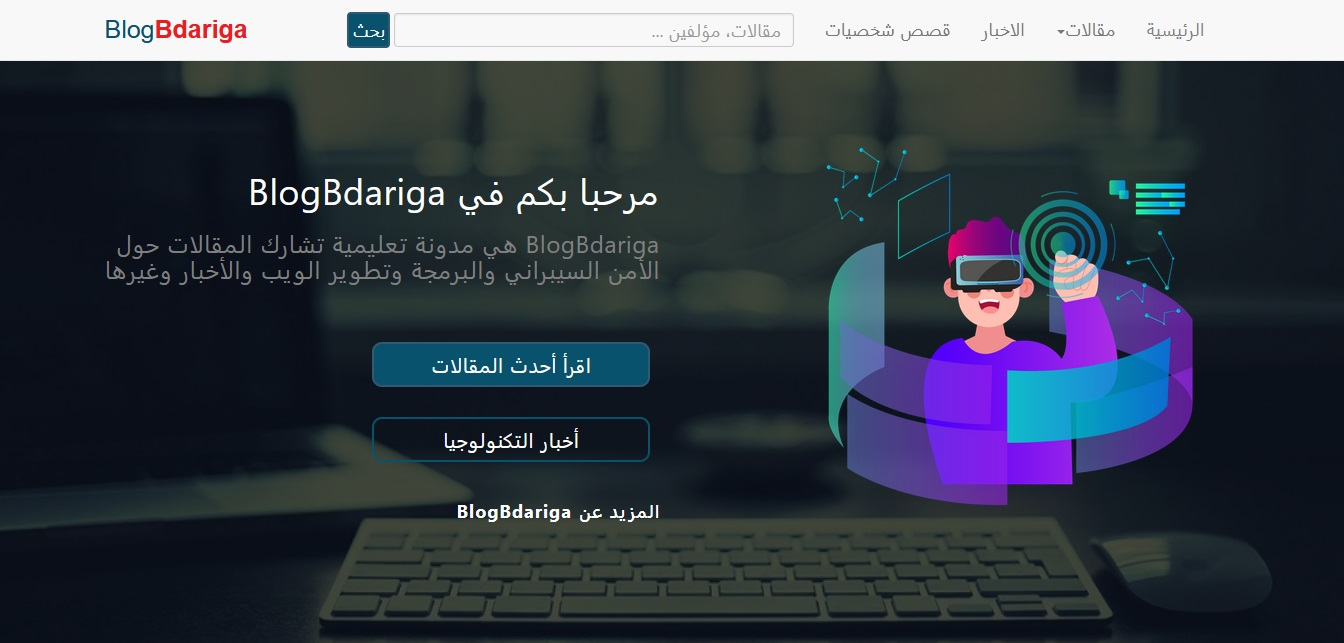
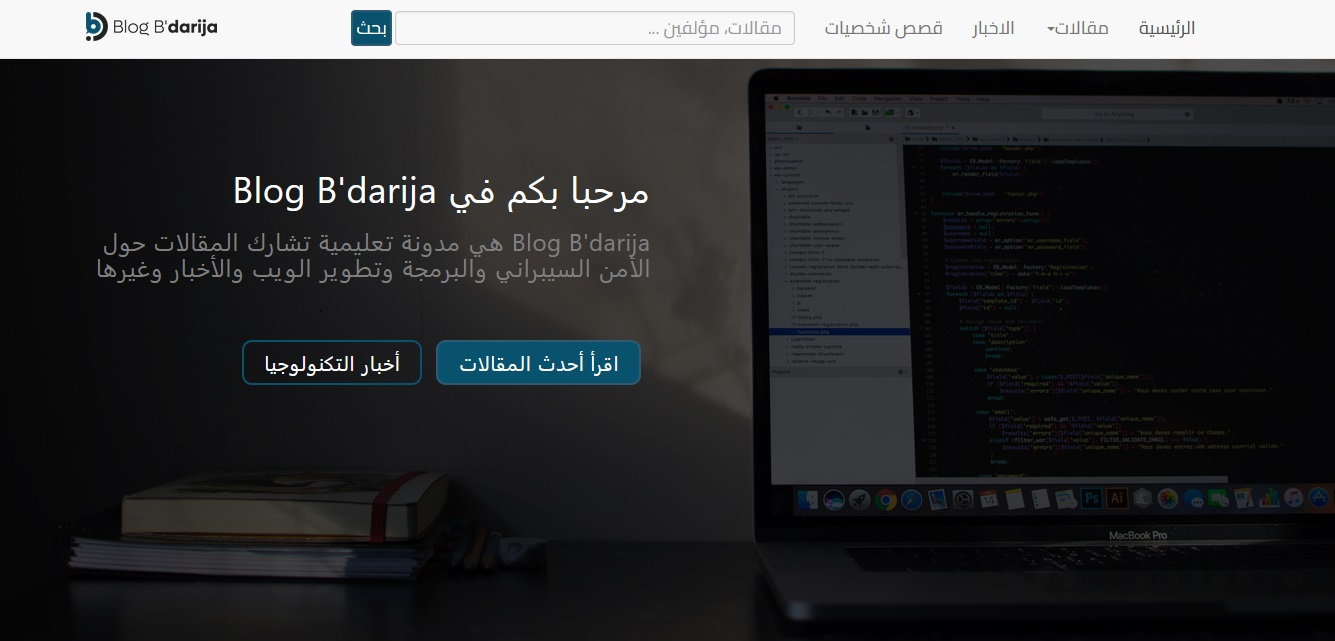
some updates

diff --git a/index.html b/index.html
@@ -9,7 +9,7 @@
 	<link rel="stylesheet" href="css/rtl.css">
 	<link rel="stylesheet" href="css/style.css">
 	<link rel="stylesheet" href="https://pro.fontawesome.com/releases/v5.10.0/css/all.css">
-	<link rel = "icon" href="img/hamza.png" type = "image/x-icon"/>
+	<link rel = "icon" href="img/hamza.jpg" type = "image/x-icon"/>
 	<link rel="stylesheet" type="text/css" href="https://www.fontstatic.com/f=althawra-fikra-bold" />
 	<link rel="stylesheet" type="text/css" href="https://www.fontstatic.com/f=shahd-bold" />
 </head>
@@ -53,8 +53,8 @@
 
 	<section class="about" id="about">
 		<div class="container">
-			<div class="col-lg-6 col-md-6 text-center">
-				<img src="img/a.jpg">
+			<div class="col-lg-6 col-md-6 text-center about-img">
+				<img src="img/hamza.jpg">
 			</div>
 			<div class="col-lg-6 col-md-6">
 				<h2>Who ami</h2>
@@ -70,7 +70,7 @@
 		<div class="container">
 			<div class="col-lg-4 col-md-4">
 				<h1>Skills</h1>
-				<p id="aboutskills">ICurrently, I spend much of my time learning new technologies and skills in the field of cyber security, exploits, and pentesting tool development.<br>
+				<p id="aboutskills">Currently, I spend much of my time learning new technologies and skills in the field of cyber security, exploits, and pentesting tool development.<br>
 				I am also proficient in handling and using a variety of operating systems, including GNU/Linux and Windows.<br>
 				As someone who believes in open source power, I prefer to share my projects with the public, <i> so you will see that on my github account.</i> It is a good solution for solving problems and getting inspiration from others.<br></p>
 			</div>
@@ -80,35 +80,30 @@
 				  <div class="skills-stat HTML5">90%</div>
 				</div>
 
-				<p>CSS3</p>
+				<p>CSS3 - Bootstrap</p>
 				<div class="skills-container">
 				  <div class="skills-stat CSS3">80%</div>
 				</div>
 
-				<p>Bootstrap</p>
-				<div class="skills-container">
-				  <div class="skills-stat Bootstrap">70%</div>
-				</div>
-
-				<p>PHP</p>
+				<p>PHP - Laravel</p>
 				<div class="skills-container">
 				  <div class="skills-stat php">90%</div>
 				</div>
 
-				<p>MySql</p>
+				<p>MySql - SQL Server</p>
 				<div class="skills-container">
 				  <div class="skills-stat MySql">95%</div>
 				</div>
 
 				
-				<p>jQuery</p>
+				<p>JS - jQuery</p>
 				<div class="skills-container">
 				  <div class="skills-stat jQuery">60%</div>
 				</div>
 
-				<p>Ado.Net & SQL Server</p>
+				<p>Dotenet Technologies</p>
 				<div class="skills-container">
-				  <div class="skills-stat dotenet">55%</div>
+				  <div class="skills-stat dotenet">80%</div>
 				</div>
 			</div>
 		</div>
@@ -155,25 +150,25 @@
 					<div class="col-lg-4 col-md-4 col-sm-12 col-xs-12 center-block">
 						<div class="center-block project">
 							<div class="projimg">
-								<img class="img-responsive" src="img/carslocation.jpg">
+								<img class="img-responsive" src="img/travrlandtheme.jpg">
 							</div>	
-							<h3>CarsLocation</h3>
-							<p>landing page for cars reservation location<br><span>6 Feb, 2022</span></p>
-							<a href="oops.html" target="_blanck"><button class="btn visit">visit</button></a>
+							<h3>Traveland</h3>
+							<p>open source travel blog theme<br><span>6 Feb, 2022</span></p>
+							<a href="https://hamza07-w.github.io/Traveland" target="_blanck"><button class="btn visit">visit</button></a>
 						</div>
 					</div>	
 	            </div>
 	            <div class="item">
-					<div class="col-lg-4 col-md-4 col-sm-12 col-xs-12 center-block">
-						<div class="center-block project">
-							<div class="projimg">
-								<img class="img-responsive" src="img/blogbdariga.jpg">
-							</div>	
-							<h3>BlogBdariga</h3>
-							<p>Personal blog with arabic moroccan language<br><span>20 Dec, 2021</span></p>
-							<a href="oops.html" target="_blanck"><button class="btn visit">visit</button></a>
-						</div>
-					</div>
+								<div class="col-lg-4 col-md-4 col-sm-12 col-xs-12 center-block">
+									<div class="center-block project">
+										<div class="projimg">
+											<img class="img-responsive" src="img/blogbdariga.jpg">
+										</div>	
+										<h3>BlogBdarija</h3>
+										<p>Personal blog about IT with Moroccan Darija language<br><span>20 Dec, 2021</span></p>
+										<a href="https://blogbdarija.com" target="_blanck"><button class="btn visit">visit</button></a>
+									</div>
+								</div>
 	            </div>
 	          </div>
 	        </div>
@@ -196,52 +191,52 @@
 	          <!-- Wrapper for slides -->
 	          <div class="carousel-inner">
 	            <div class="item active">
-					<div class="col-lg-4 col-md-4 col-sm-12 col-xs-12 center-block">
-						<div class="center-block project">
-							<div class="projimg">
-								<img class="img-responsive" src="img/coinroad.jpg">
-							</div>	
-							<h3>CoinRoad</h3>
-							<p>Products and services of a company landing page<br><span>17 Jan, 2022</span></p>
-							<a href="https://hamza07-w.github.io/CoinRoad" target="_blanck"><button class="btn visit">visit</button></a>
-						</div>
-					</div>
+								<div class="col-lg-4 col-md-4 col-sm-12 col-xs-12 center-block">
+									<div class="center-block project">
+										<div class="projimg">
+											<img class="img-responsive" src="img/coinroad.jpg">
+										</div>	
+										<h3>CoinRoad</h3>
+										<p>Products and services of a company landing page<br><span>17 Jan, 2022</span></p>
+										<a href="https://hamza07-w.github.io/CoinRoad" target="_blanck"><button class="btn visit">visit</button></a>
+									</div>
+								</div>
 	            </div>
 	            <div class="item">
-					<div class="col-lg-4 col-md-4 col-sm-12 col-xs-12 center-block">
-						<div class="center-block project">
-							<div class="projimg">
-								<img class="img-responsive" src="img/resparis.jpg">
-							</div>	
-							<h3>ResParis</h3>
-							<p>France, Paris Restaurant landing page<br><span>29 Jan, 2022</span></p>
-							<a href="https://hamza07-w.github.io/ResParis" target="_blanck"><button class="btn visit">visit</button></a>
-						</div>
-					</div>
+								<div class="col-lg-4 col-md-4 col-sm-12 col-xs-12 center-block">
+									<div class="center-block project">
+										<div class="projimg">
+											<img class="img-responsive" src="img/resparis.jpg">
+										</div>	
+										<h3>ResParis</h3>
+										<p>France, Paris Restaurant landing page<br><span>29 Jan, 2022</span></p>
+										<a href="https://hamza07-w.github.io/ResParis" target="_blanck"><button class="btn visit">visit</button></a>
+									</div>
+								</div>
 	            </div>
 	            <div class="item">
-					<div class="col-lg-4 col-md-4 col-sm-12 col-xs-12 center-block">
-						<div class="center-block project">
-							<div class="projimg">
-								<img class="img-responsive" src="img/carslocation.jpg">
-							</div>	
-							<h3>CarsLocation</h3>
-							<p>landing page for cars reservation location<br><span>6 Feb, 2022</span></p>
-							<a href="oops.html" target="_blanck"><button class="btn visit">visit</button></a>
-						</div>
-					</div>	
+								<div class="col-lg-4 col-md-4 col-sm-12 col-xs-12 center-block">
+									<div class="center-block project">
+										<div class="projimg">
+											<img class="img-responsive" src="img/travrlandtheme.jpg">
+										</div>	
+										<h3>Traveland</h3>
+										<p>open source travel blog theme<br><span>6 Feb, 2022</span></p>
+										<a href="https://hamza07-w.github.io/Traveland" target="_blanck"><button class="btn visit">visit</button></a>
+									</div>
+								</div>	
 	            </div>
 	            <div class="item">
-					<div class="col-lg-4 col-md-4 col-sm-12 col-xs-12 center-block">
-						<div class="center-block project">
-							<div class="projimg">
-								<img class="img-responsive" src="img/blogbdariga.jpg">
-							</div>	
-							<h3>BlogBdariga</h3>
-							<p>Personal blog with arabic moroccan language<br><span>20 Dec, 2021</span></p>
-							<a href="oops.html" target="_blanck"><button class="btn visit">visit</button></a>
-						</div>
-					</div>
+								<div class="col-lg-4 col-md-4 col-sm-12 col-xs-12 center-block">
+									<div class="center-block project">
+										<div class="projimg">
+											<img class="img-responsive" src="img/blogbdariga.jpg">
+										</div>	
+										<h3>BlogBdarija</h3>
+										<p>Personal blog about IT with Moroccan Darija language<br><span>20 Dec, 2021</span></p>
+										<a href="https://blogbdarija.com" target="_blanck"><button class="btn visit">visit</button></a>
+									</div>
+								</div>
 	            </div>
 	          </div>
 	        </div>

diff --git a/css/style.css b/css/style.css
@@ -99,7 +99,7 @@ img:hover {
 p {
 	display: none;
 	color: #000;
-	font-size: 17px;
+	font-size: 1.5rem;
 	letter-spacing: 1px;
 	font-family: 'Trebuchet MS', sans-serif;
 }
@@ -144,23 +144,27 @@ h2 {
 /*start anout*/
 
 .about {
-	padding-top: 50px;
+	padding-top: 60px;
 	padding-bottom: 50px;
 	background: #f8f9fa;
 
+}
+
+.about-img {
+	overflow: hidden;
 }
 
 .about img {
 	width: 60%;
 	position: relative;
 	left: -25%;
-	border-radius: 50%;
+	border-radius: 5%;
 	cursor: pointer;
 	transition: 1s;
 }
 
 .about img:hover {
-	transform: scale(1.1) rotate(5deg) ;
+	transform: scale(1.04) rotate(0deg) ;
 }
 
 /*end about*/
@@ -221,7 +225,7 @@ h2 {
 .php {width: 90%; background-color: #954ced;}
 .MySql {width: 95%; background-color: #954ced;}
 .jQuery {width: 60%; background-color: #954ced;}
-.dotenet {width: 55%; background-color: #954ced;}
+.dotenet {width: 80%; background-color: #954ced;}
 
 /*end skills*/
 
